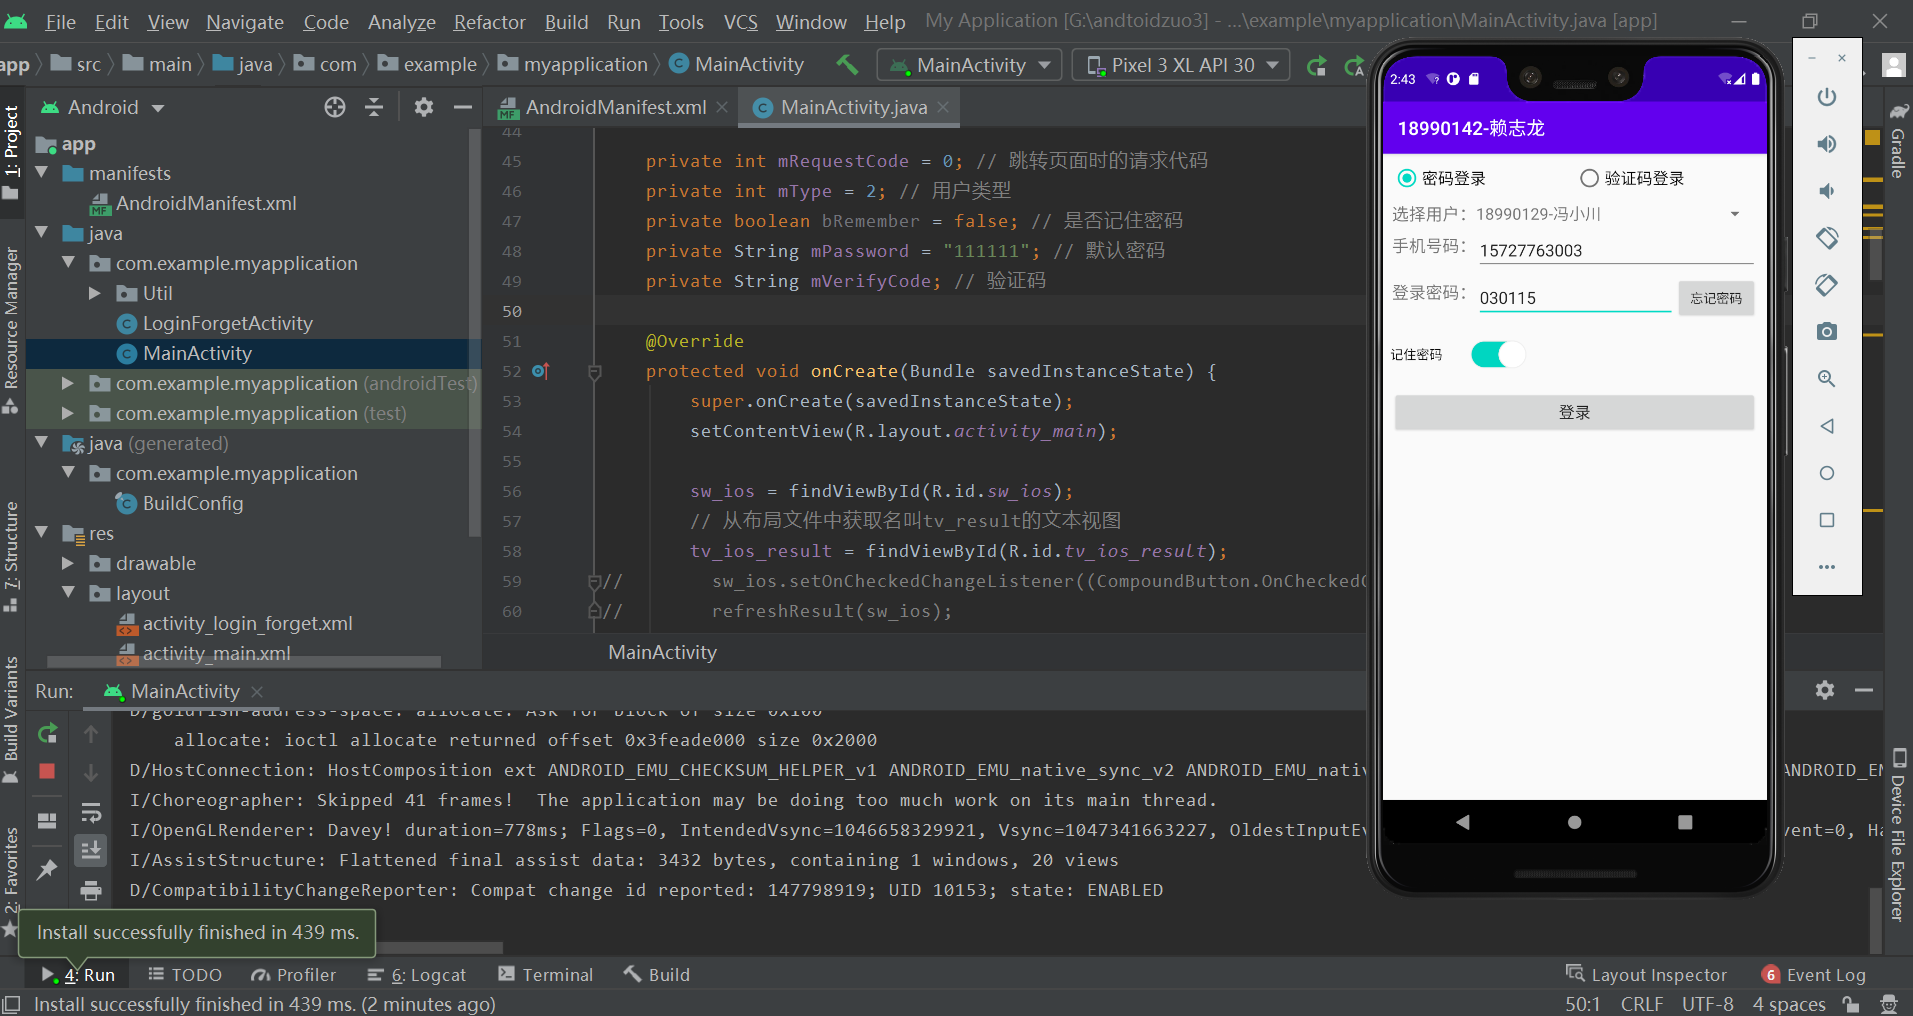
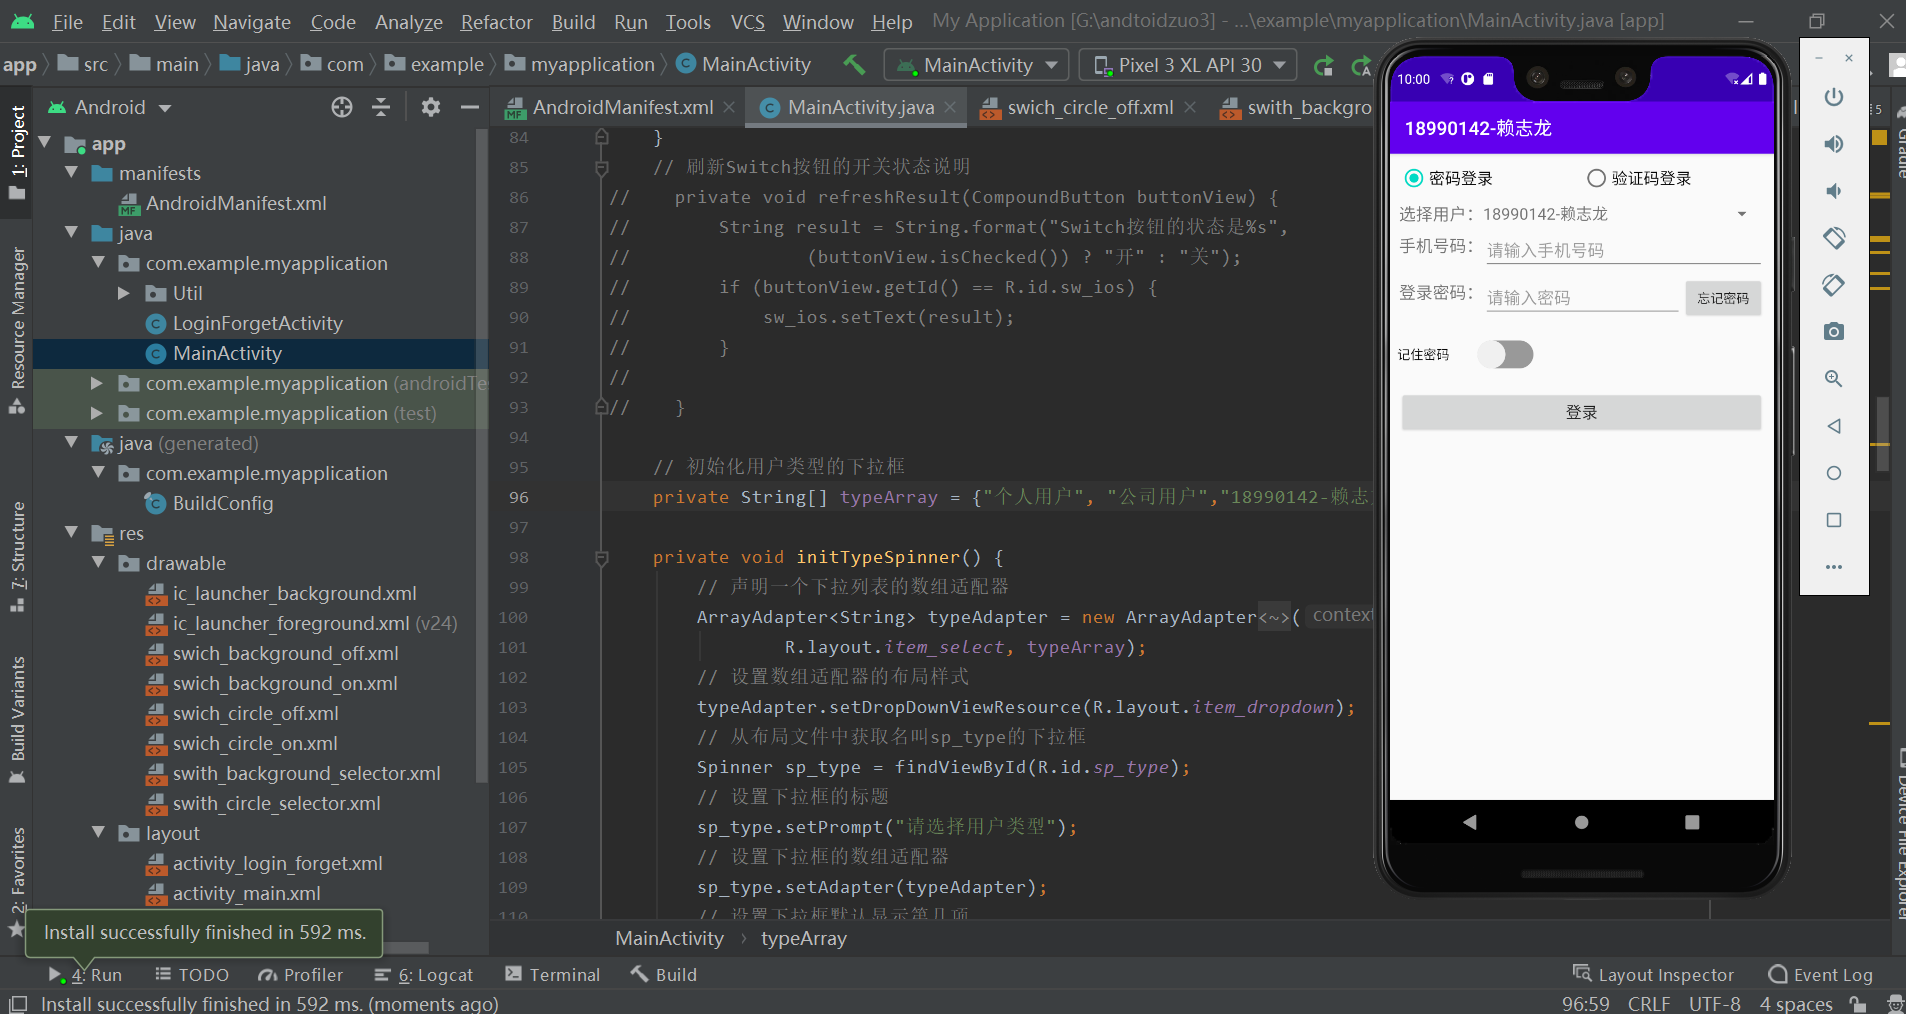
1

diff --git a/andtoidzuo3/app/src/androidTest/main/java/com/example/myapplication/MainActivity.java b/andtoidzuo3/app/src/androidTest/main/java/com/example/myapplication/MainActivity.java
@@ -93,7 +93,7 @@ public class MainActivity extends AppCompatActivity implements View.OnClickListe
 //    }
 
     // 初始化用户类型的下拉框
-    private String[] typeArray = {"个人用户", "公司用户","18990129-冯小川"};
+    private String[] typeArray = {"个人用户", "公司用户","18990142-赖志龙"};
 
     private void initTypeSpinner() {
         // 声明一个下拉列表的数组适配器
